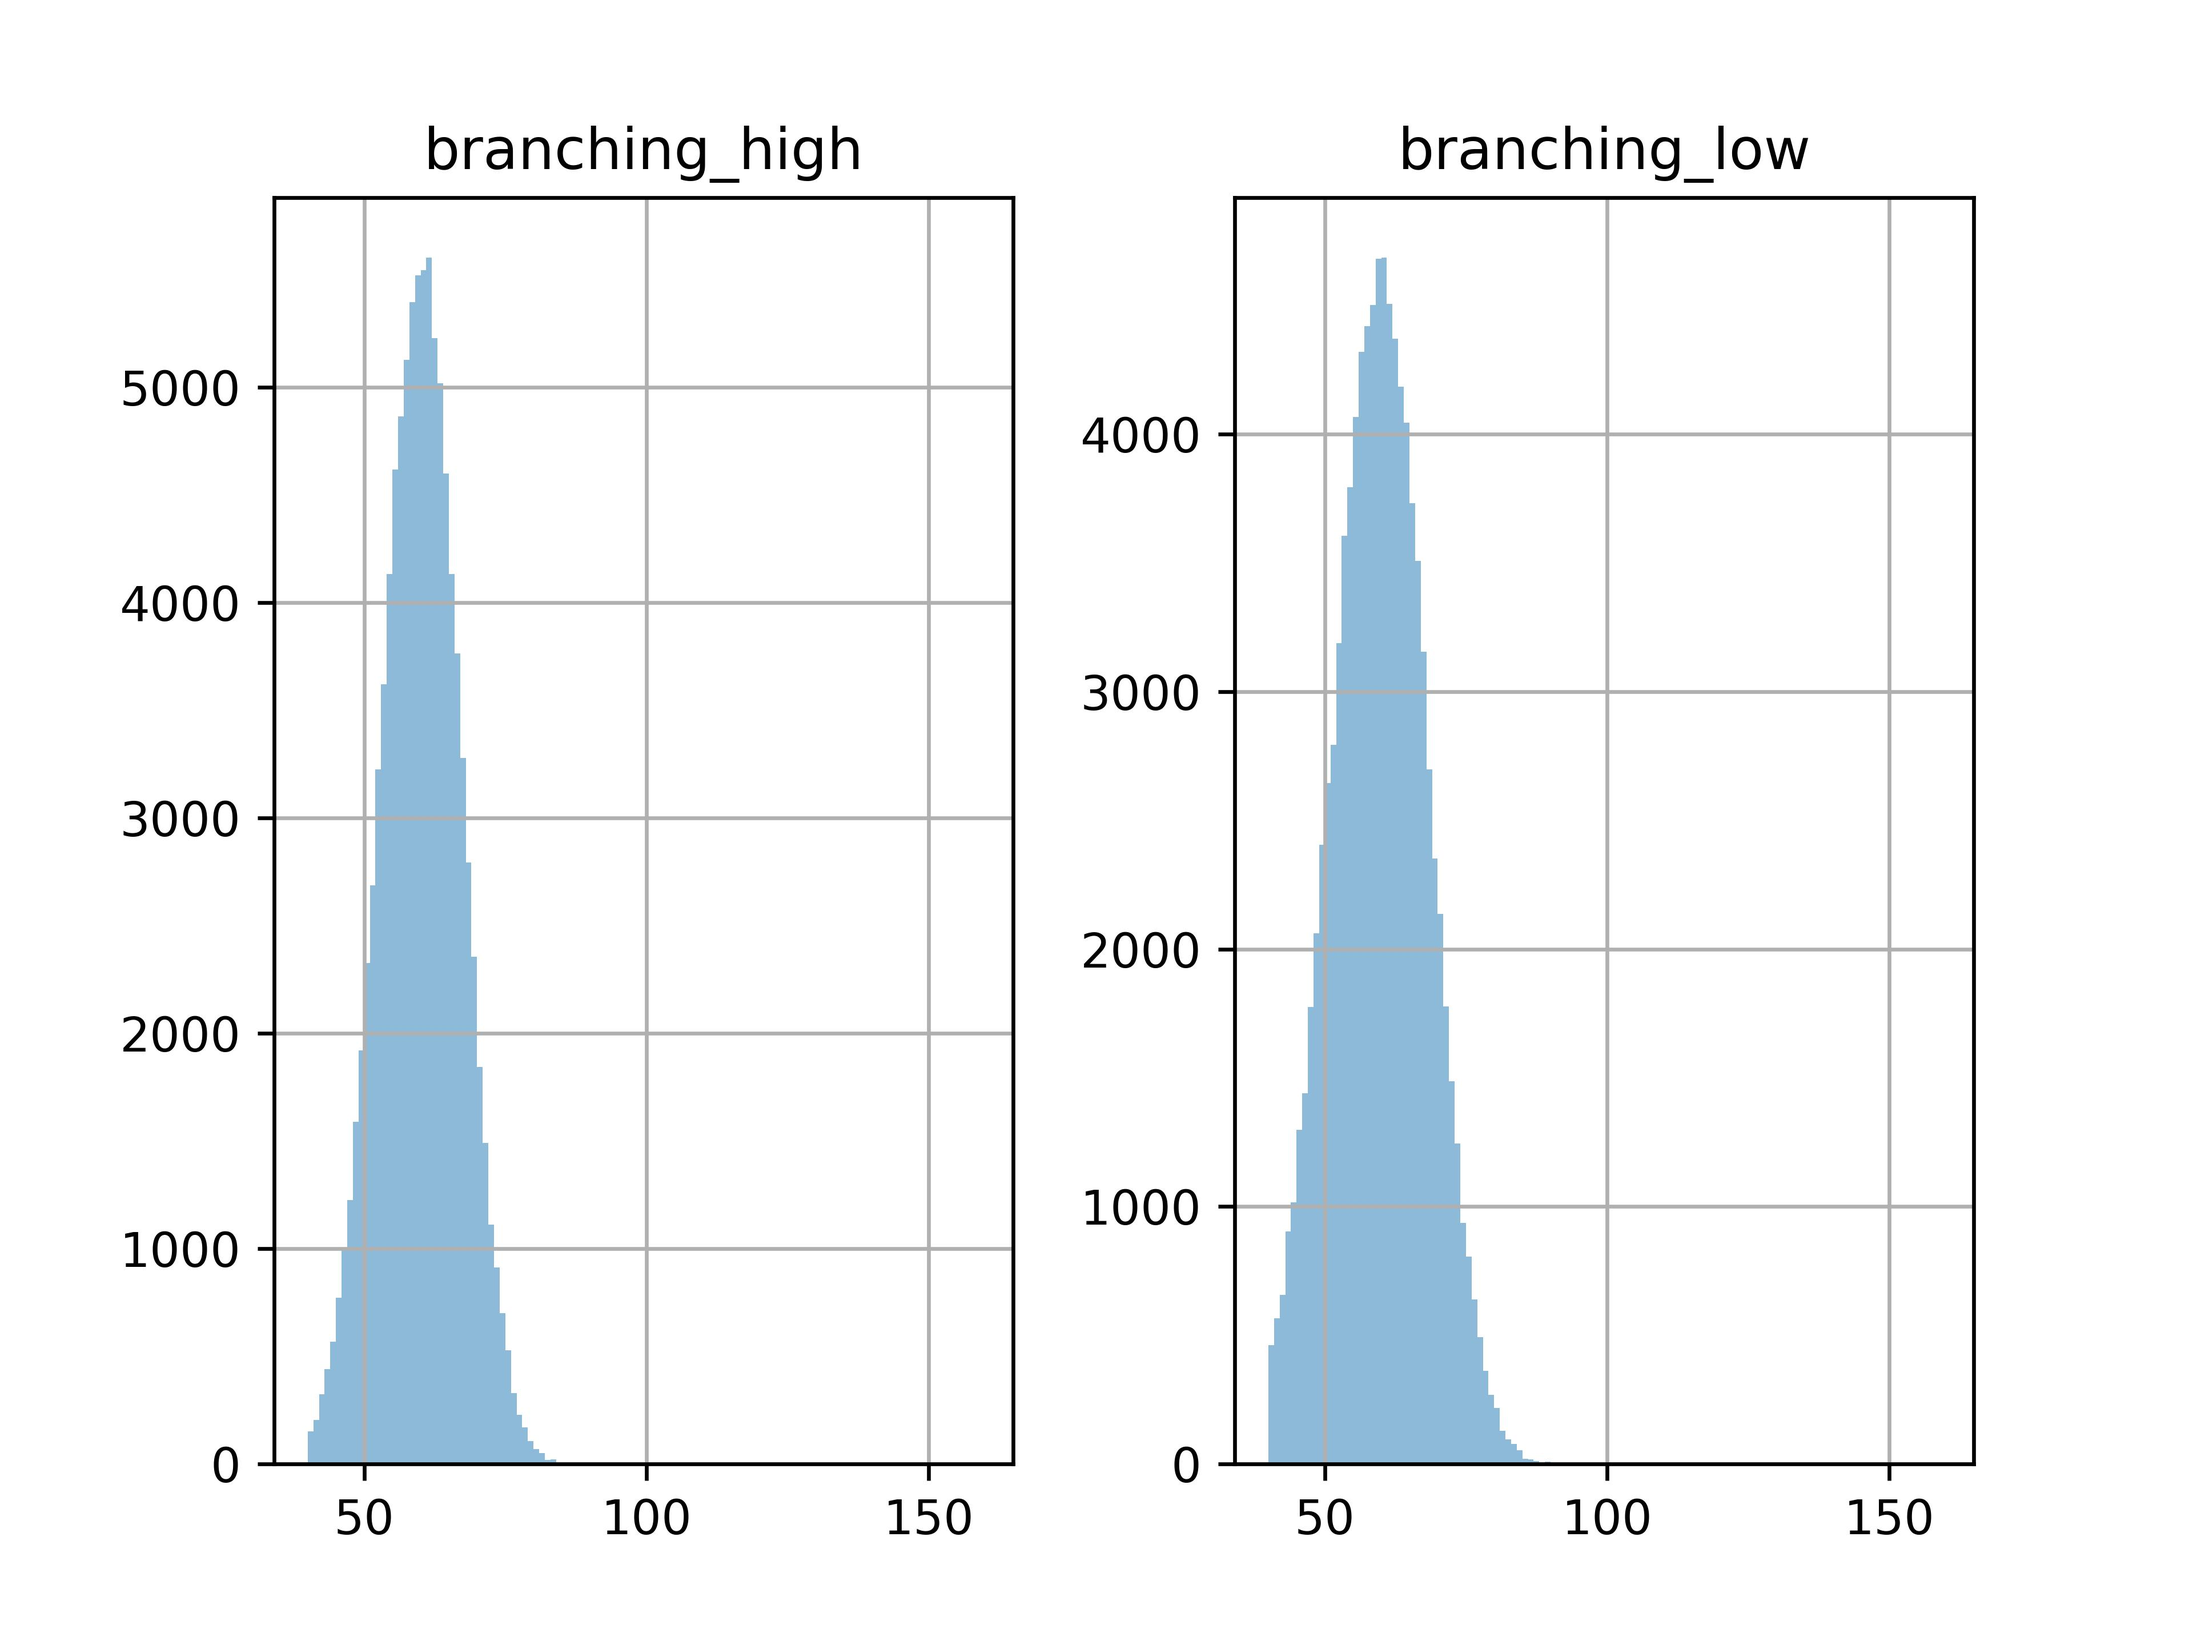
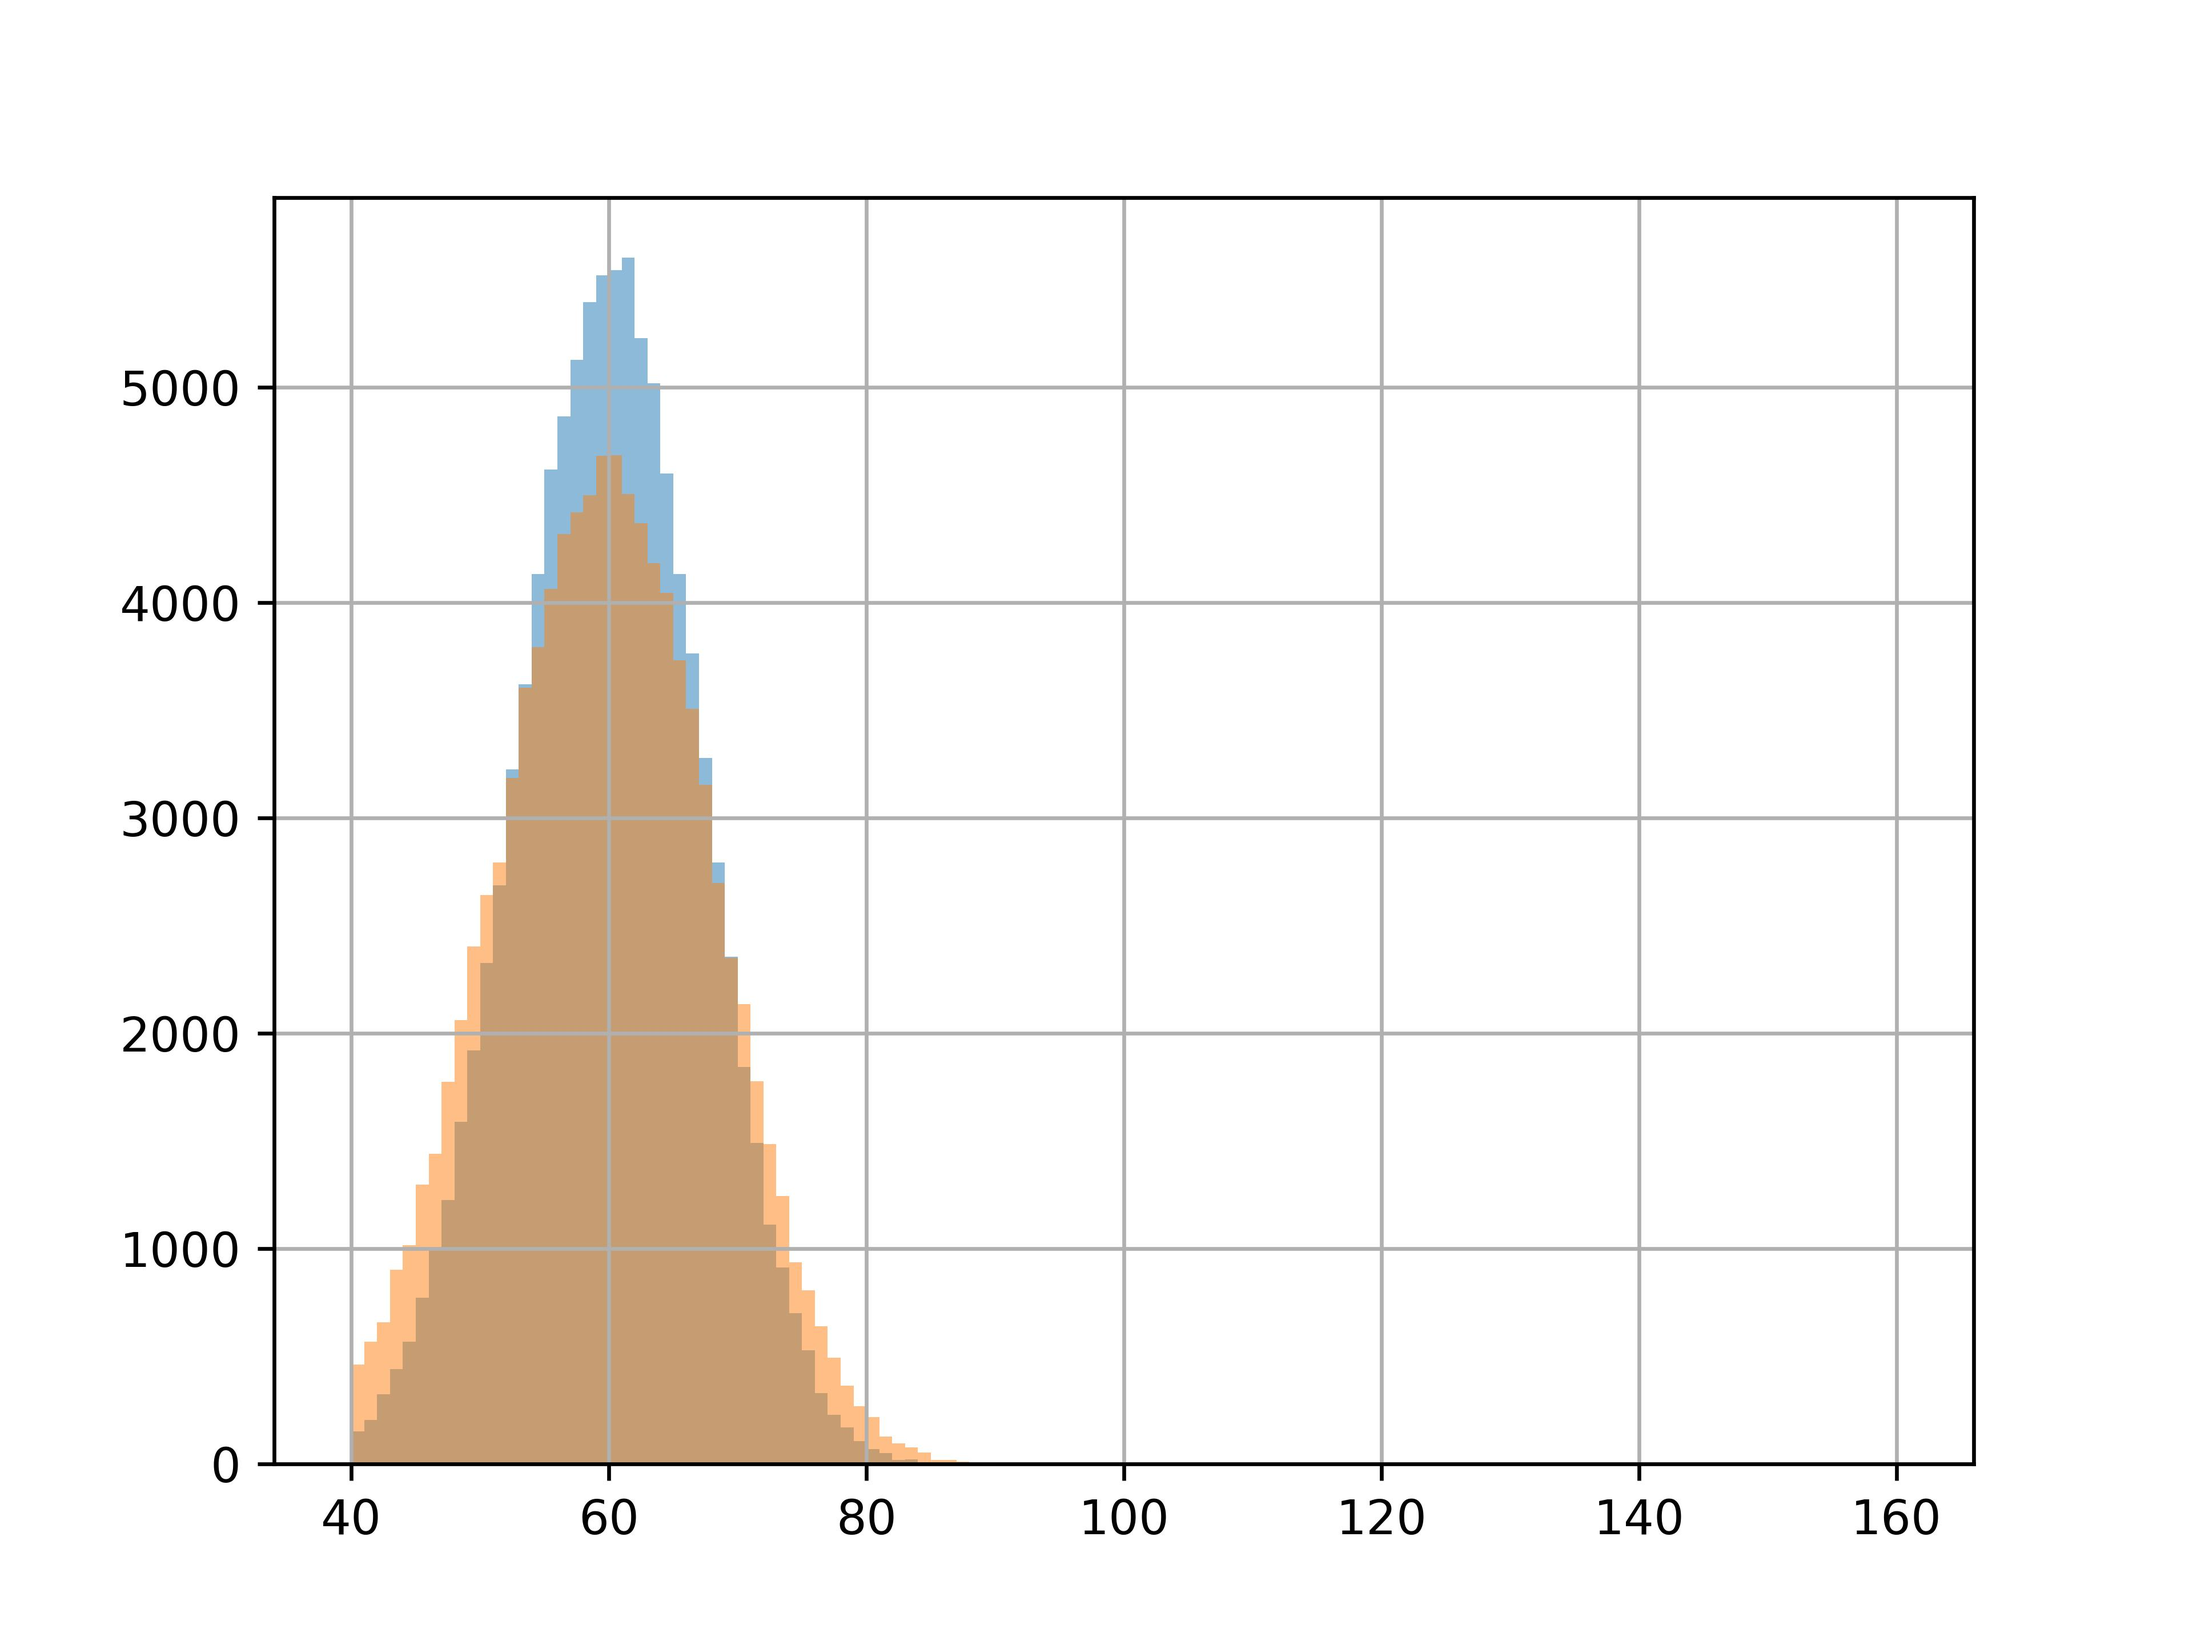
Tried to get the histograms on the same fig

diff --git a/scripts/plot_histograms.py b/scripts/plot_histograms.py
@@ -15,7 +15,10 @@ if __name__ == '__main__':
     pops = tuple(map(lambda x: x.population, dfs))
     binrange = range(*args.bins)
     df = pd.concat(pops, axis=1, keys=map(lambda x: x.stem, args.samples))
-    ax = df.hist(bins=binrange, alpha=1./len(args.samples))
+    alpha = 1./len(pops)
+    ax0 = pops[0].hist(bins=binrange, alpha=alpha)
+    for pop in pops[1:]:
+        pop.hist(ax=ax0, bins=binrange, alpha=alpha)
     plt.savefig(args.output, dpi=600)
 
 
